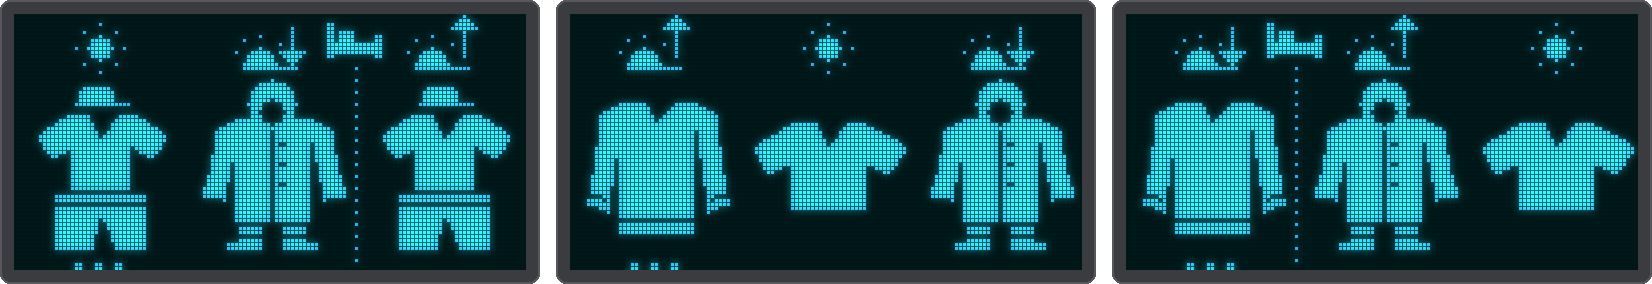
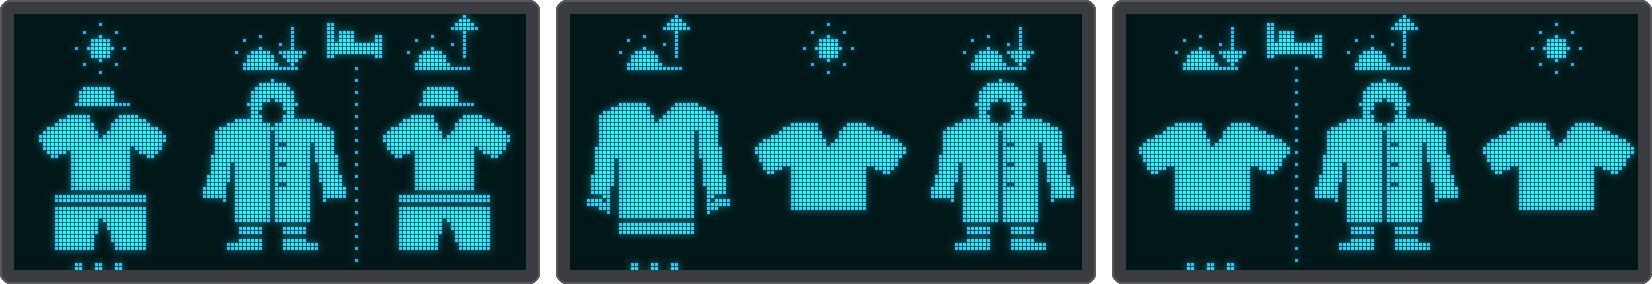
Kids: one temperature per part of the day
Each column of the kids screens now has one characteristic temperature,
shown on the weather screen and used for the outfit, so number and picture
always match:

- morning: the lowest (the walk to school)
- afternoon: the highest
- evening: the first hour, 18:00
- for the current part only the hours still to come count

Before, the weather screen showed the highest and the outfit used the
average: a morning of 10 at 07:30 and 17 from 11:00 showed 16.

- kidsPartOutlook in motologic, with unit tests
- docs: kids page (table), screenshots regenerated

Claude-Session: https://claude.ai/code/session_015K6ocNX4K4c6roKqsVMzdi

Changed region(s): [[0.6792, 0.338, 0.8027, 0.8451]]

diff --git a/test/test_logic/test_logic.cpp b/test/test_logic/test_logic.cpp
@@ -366,6 +366,43 @@ void test_kids_window_highest_temperature() {
     TEST_ASSERT_EQUAL(OUTFIT_COOL, o.outfit);
 }
 
+void test_kids_part_temperature() {
+    // This morning: 10 at 07:00, 17 from 11:00. The morning column shows 10 and a sweater, not 16.
+    KidsHour h[5] = { hr(10, 0, 1), hr(12, 0, 1), hr(14, 0, 1), hr(16, 0, 1), hr(17, 0, 1) };
+    KidsPart morning = { KIDS_PART_MORNING, 0, 5, false, true };
+    KidsOutlook o = kidsPartOutlook(h, morning, K);
+    TEST_ASSERT_EQUAL(10, o.tempC);
+    TEST_ASSERT_EQUAL(OUTFIT_COOL, o.outfit);
+
+    // A morning that gets colder: still the lowest
+    KidsHour cold[3] = { hr(14, 0, 1), hr(12, 0, 1), hr(9, 0, 3) };
+    TEST_ASSERT_EQUAL(9, kidsPartOutlook(cold, KidsPart{ KIDS_PART_MORNING, 0, 3, false, false }, K).tempC);
+
+    // The afternoon: the highest, and the outfit goes by it
+    KidsHour pm[3] = { hr(17, 0, 1), hr(21, 0, 1), hr(19, 0, 1) };
+    o = kidsPartOutlook(pm, KidsPart{ KIDS_PART_AFTERNOON, 0, 3, false, false }, K);
+    TEST_ASSERT_EQUAL(21, o.tempC);
+    TEST_ASSERT_EQUAL(OUTFIT_WARM, o.outfit);
+
+    // The evening: its first hour, not the cold of 22:00
+    KidsHour ev[4] = { hr(16, 0, 1), hr(14, 0, 1), hr(12, 0, 1), hr(11, 0, 1) };
+    o = kidsPartOutlook(ev, KidsPart{ KIDS_PART_EVENING, 0, 4, false, false }, K);
+    TEST_ASSERT_EQUAL(16, o.tempC);
+    TEST_ASSERT_EQUAL(OUTFIT_MILD, o.outfit);
+
+    // Rain still makes it a rain coat, whatever the number
+    KidsHour wet[2] = { hr(18, 0, 1), hr(18, 1.0f, 61) };
+    o = kidsPartOutlook(wet, KidsPart{ KIDS_PART_AFTERNOON, 0, 2, false, false }, K);
+    TEST_ASSERT_EQUAL(OUTFIT_RAIN, o.outfit);
+
+    // Hours without data are skipped; none at all: not valid
+    KidsHour gaps[3] = { hr(30, 0, 1), hr(8, 0, 1), hr(12, 0, 1) };
+    gaps[0].valid = false;
+    TEST_ASSERT_EQUAL(8, kidsPartOutlook(gaps, KidsPart{ KIDS_PART_MORNING, 0, 3, false, false }, K).tempC);
+    gaps[1].valid = gaps[2].valid = false;
+    TEST_ASSERT_FALSE(kidsPartOutlook(gaps, KidsPart{ KIDS_PART_MORNING, 0, 3, false, false }, K).valid);
+}
+
 void test_part_of_day() {
     TEST_ASSERT_EQUAL(-1, partOfDay(6));
     TEST_ASSERT_EQUAL(KIDS_PART_MORNING, partOfDay(7));
@@ -605,6 +642,7 @@ int main(int, char**) {
     RUN_TEST(test_kids_outfits_follow_changed_limits);
     RUN_TEST(test_kids_window);
     RUN_TEST(test_kids_window_highest_temperature);
+    RUN_TEST(test_kids_part_temperature);
     RUN_TEST(test_part_of_day);
     RUN_TEST(test_day_parts_in_the_morning);
     RUN_TEST(test_day_parts_roll_into_tomorrow);

diff --git a/firmware/lib/motologic/motologic.h b/firmware/lib/motologic/motologic.h
@@ -127,8 +127,8 @@ struct KidsOutlook {
     int  outfit;     // OUTFIT_*
     int  weather;    // KIDS_WEATHER_*
     bool night;      // draw the moon instead of the sun
-    int  tempC;      // average temperature, rounded (decides the outfit)
-    int  maxTempC;   // highest temperature, rounded (the number on the weather screen)
+    int  tempC;      // average temperature, rounded (kidsPartOutlook: the part's own temperature)
+    int  maxTempC;   // highest temperature, rounded
     int  hour;       // index of the middle hour
 };
 
@@ -159,6 +159,12 @@ struct KidsPart {
 // hour i, and hour 0 is the current one. Fills at most maxParts parts, the current part first (only
 // its remaining hours); returns how many.
 size_t kidsDayParts(const int* localHours, size_t count, KidsPart* out, size_t maxParts);
+
+// One column of the kids screens: the weather picture of the part (as kidsWindowOutlook), and one
+// characteristic temperature that is both the number on the weather screen and what the outfit goes by:
+// the morning its lowest (the walk to school), the afternoon its highest, the evening its first hour
+// (18:00, before bedtime). For the current part only its remaining hours count. tempC holds that number.
+KidsOutlook kidsPartOutlook(const KidsHour* hours, const KidsPart& part, const KidsLimits& l);
 
 // Kids variant: countdowns to a birthday or a holiday, counted in sleeps (nights until the day)
 #define KIDS_EVENT_BIRTHDAY     0

diff --git a/firmware/lib/motologic/motologic.cpp b/firmware/lib/motologic/motologic.cpp
@@ -182,6 +182,28 @@ KidsOutlook kidsWindowOutlook(const KidsHour* hours, size_t from, size_t to, con
     return o;
 }
 
+KidsOutlook kidsPartOutlook(const KidsHour* hours, const KidsPart& part, const KidsLimits& l) {
+    KidsOutlook o = kidsWindowOutlook(hours, part.from, part.to, l);
+    if (!o.valid) return o;
+    float t = NAN;
+    for (size_t i = part.from; i < part.to; i++) {
+        const KidsHour& h = hours[i];
+        if (!h.valid || isnan(h.tempC)) continue;
+        if (isnan(t)) {
+            t = h.tempC;
+            if (part.part == KIDS_PART_EVENING) break;          // the start of the evening
+        } else if (part.part == KIDS_PART_MORNING) {
+            if (h.tempC < t) t = h.tempC;                       // the coldest of the morning
+        } else if (h.tempC > t) {
+            t = h.tempC;                                        // the warmest of the afternoon
+        }
+    }
+    if (isnan(t)) return o;
+    o.tempC = (int)lroundf(t);
+    o.outfit = outfitFor(t, o.weather, o.night, l);
+    return o;
+}
+
 int partOfDay(int localHour) {
     if (localHour >= KIDS_MORNING_FROM_HR && localHour < KIDS_AFTERNOON_FROM_HR) return KIDS_PART_MORNING;
     if (localHour >= KIDS_AFTERNOON_FROM_HR && localHour < KIDS_EVENING_FROM_HR) return KIDS_PART_AFTERNOON;

diff --git a/firmware/include/display.h b/firmware/include/display.h
@@ -154,10 +154,10 @@ struct KidsColumn {
     int  outfit;    // OUTFIT_* (clothes screen)
     int  weather;   // KIDS_WEATHER_* (weather screen)
     bool night;     // moon instead of sun
-    int  temp;      // the highest temperature, as shown (weather screen)
+    int  temp;      // the part's temperature, as shown (weather screen): see kidsPartOutlook
 };
 // Kids variant: the next parts of the day in up to three columns, outfits (weather = false) or weather
-// pictures with the highest temperature. nowColumn gets dots underneath (-1 = none); nightBefore is the
+// pictures with the part's temperature. nowColumn gets dots underneath (-1 = none); nightBefore is the
 // column a night lies before (a dotted line with a bed; -1 or 0 = none).
 void renderKidsDayStrip(Adafruit_SSD1306 &display, const KidsColumn* cols, size_t count, int nowColumn,
                         int nightBefore, bool weather);

diff --git a/firmware/src/main.cpp b/firmware/src/main.cpp
@@ -422,8 +422,9 @@ void renderKids(bool weather) {
     KidsColumn cols[3];
     int nowColumn = -1, nightBefore = -1;
     for (size_t i = 0; i < np; i++) {
-        KidsOutlook o = kidsWindowOutlook(hours, parts[i].from, parts[i].to, kidsLimits);
-        cols[i] = KidsColumn{ parts[i].part, o.valid, o.outfit, o.weather, o.night, kidsShownTemp((float)o.maxTempC) };
+        // One number per part, shown on the weather screen and the one the outfit goes by
+        KidsOutlook o = kidsPartOutlook(hours, parts[i], kidsLimits);
+        cols[i] = KidsColumn{ parts[i].part, o.valid, o.outfit, o.weather, o.night, kidsShownTemp((float)o.tempC) };
         if (parts[i].now) nowColumn = (int)i;
         if (parts[i].afterSleep && i > 0 && nightBefore < 0) nightBefore = (int)i;
     }

diff --git a/firmware/src/display.cpp b/firmware/src/display.cpp
@@ -802,7 +802,7 @@ void renderStatusMarks(Adafruit_SSD1306 &display, bool showTomorrow, int wifiBar
 // ---- Kids variant: the day in three parts --------------------------------------------------------
 // Two screens with the same layout: three columns of 42 px for the next three parts of the day (morning,
 // afternoon, evening; the current one first). Each column has the time-of-day symbol at the top, then an
-// outfit (clothes screen) or a weather picture with the highest temperature (weather screen). Dots under a
+// outfit (clothes screen) or a weather picture with the part's temperature (weather screen). Dots under a
 // column mark "now"; a dotted line with a bed marks the night between today and tomorrow.
 
 #define KIDS_COL_W     42

diff --git a/docs/kids.md b/docs/kids.md
@@ -23,8 +23,20 @@ defaults, see *Settings* below):
 | 0 to under 5 °C | winter coat and hat |
 | below 0 °C, or snow | winter coat, hat, scarf and mittens |
 
-The outfit of a part goes by its average temperature and its wettest weather: one hour with 0.2 mm of rain
-or more (or a thunderstorm) makes it a rain coat.
+**One number per part.** Each part of the day has one temperature that the weather screen shows and the
+outfit goes by, so the number and the picture always match:
+
+| Part | Its temperature | Why |
+|------|-----------------|-----|
+| morning (7-12) | the **lowest** | that is the walk to school, usually right at the start |
+| afternoon (12-18) | the **highest** | how people talk about the day: "this afternoon it gets 17" |
+| evening (18-22) | the temperature at **18:00** | when the kids may still play outside; 22:00 is bedtime |
+
+For the current part only the hours still to come count (with what is measured right now for this hour).
+A morning of 10° at 7:30 and 17° from 11:00 shows **10 and a sweater**, not the 16 of late morning.
+
+The weather picture goes by the wettest weather of the part: one hour with 0.2 mm of rain or more (or a
+thunderstorm) makes it rain, and the outfit a rain coat (unless it is cold enough for the winter coat).
 
 **The three parts.** The parts of the day are morning (7-12), afternoon (12-18) and evening (18-22). The
 screen always shows the **next three**, starting with the current one, so it never shows what is past:
@@ -48,11 +60,11 @@ The symbol at the top of a column says which part it is:
 | small sun | afternoon (the sun is high) |
 | half sun on the horizon, arrow down | evening (the sun goes down) |
 
-![Kids weather screens: 10:00 sun 13, partly cloudy 19, rain 16; a winter day with snow -3, cloud 1, moon -2; a summer afternoon sun 28, thunderstorm 22, sun 28 tomorrow; an evening moon 15, rain 12 and wind 17 tomorrow](images/kids-weather.png){ .center }
+![Kids weather screens: 10:00 sun 12, partly cloudy 19, rain 16; a winter day with snow -3, cloud 1, moon -2; a summer afternoon sun 28, thunderstorm 22, sun 28 tomorrow; an evening moon 15, rain 9 and wind 17 tomorrow](images/kids-weather.png){ .center }
 
 **Weather screen:** the same three parts, each with a weather picture (sun or moon, partly cloudy, cloud,
-rain, thunderstorm, snow, wind) and its **highest temperature**, like the forecast on the news: a number to
-read, no unit.
+rain, thunderstorm, snow, wind) and its temperature (see *One number per part* above): a number to read,
+no unit.
 
 **Without a touch sensor.** The touch sensor is optional here too (web UI, *Display*). With *Cycle screens
 every (s)* under [Screens](screens.md) the screens of the tap list follow each other by themselves: with the
